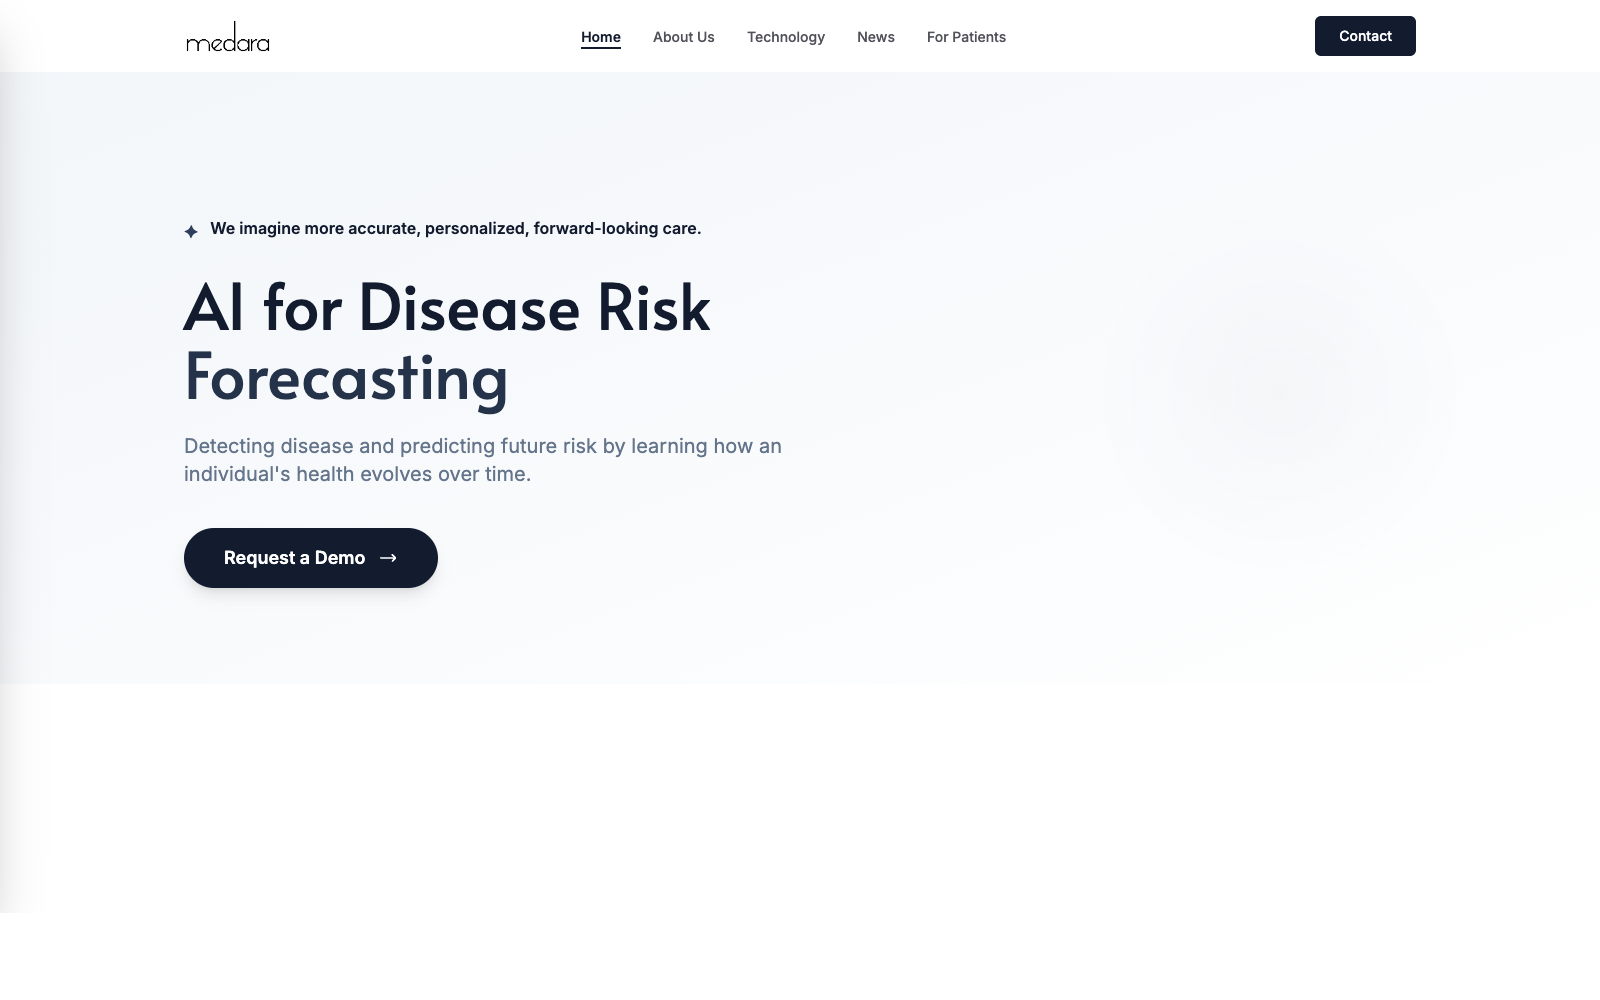
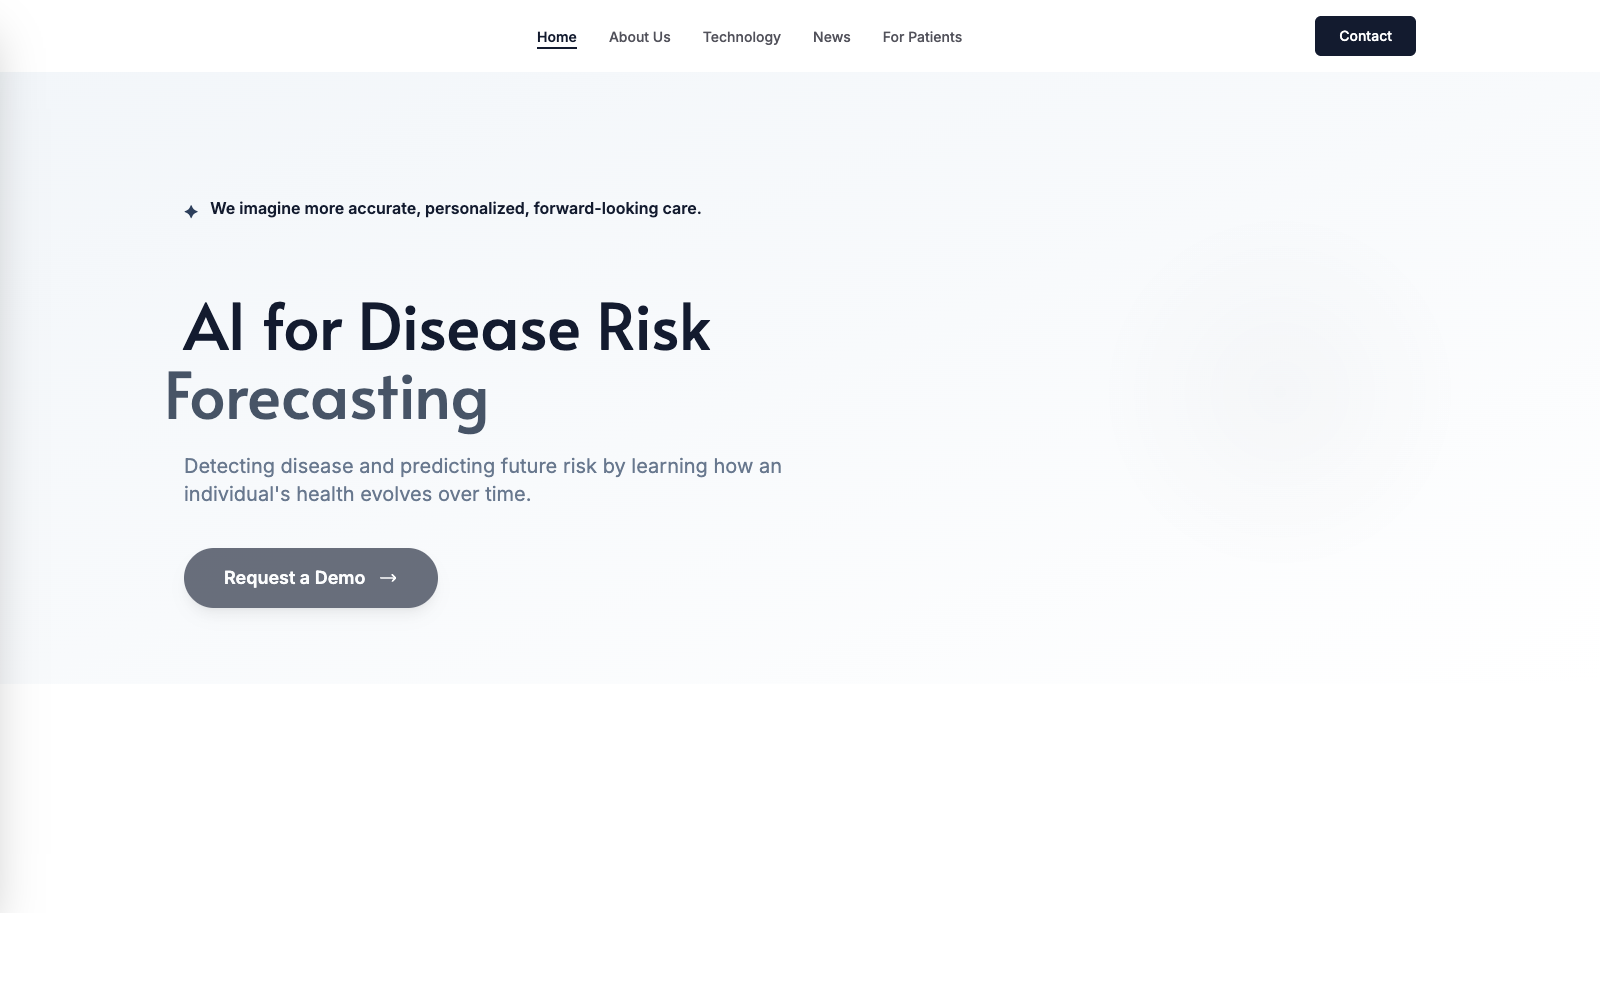
Rebuild Hero again: type-poster composition, product bleeds off-canvas
The previous Snack Mix hero (text-left + product-right + 4 sticker
badges + 3 sparkle doodles) was working visually but reading as a
2024-era D2C-snack template — same anatomy as Liquid Death, OLIPOP,
Magic Spoon, etc.

Composition rebuilt to feel more like a magazine cover or screen-
print poster than a SaaS product page:

- Killed the 5/12 + 7/12 split layout
- Headline now fills the viewport in a 4-line stack
- Product photo is huge and bleeds off the right edge as a single
  dramatic prop (110% width on mobile, ~62% on desktop, rotated -16°)
  instead of being centered/pedestaled in its own column
- mix-blend-multiply on the headline lets the type sit OVER the bar
  where they overlap, so they read as one composition
- Dropped all 4 sticker badges (cliché in the snack-CPG category)
- Dropped all 3 sparkle/asterisk doodles
- Dropped the secondary 'or peek the ingredients' link (was a second
  CTA competing with the primary)
- Replaced sticker callouts with a single horizontal spec strip
  ('Gluten free · 20g protein · Made in small batches') in display
  caps, separated by cherry dots — feels like a magazine masthead
- Caveat eyebrow stays but anchored top-left as a margin note rather
  than centered above the headline (asymmetric on purpose)

docs/hero.png refreshed to capture the new state.

diff --git a/src/sections/Hero.tsx b/src/sections/Hero.tsx
@@ -2,230 +2,117 @@ import { motion } from "framer-motion";
 import { Link } from "react-router-dom";
 
 /**
- * Snack Mix hero.
+ * Type-poster hero.
  *
- * Editorial split kept (asymmetric 5/7 grid + single product), but the
- * voice flips from clinical lab-notebook to playful sticker pack:
- * handwritten Caveat eyebrow, chunky Bricolage headline, sticker badges
- * with bouncy spring motion replacing the thin annotation lines.
+ * Drops the 2024-era D2C-snack template (split layout, sticker
+ * badges around a centered product, scattered sparkle doodles).
+ * The composition now reads like a magazine cover or a screen-print
+ * poster: the headline fills the viewport, and the product bleeds
+ * off the right edge as a single dramatic prop instead of a
+ * pedestaled hero shot.
  */
 export default function Hero() {
   return (
-    <section className="relative w-full bg-cream overflow-hidden pt-28 md:pt-32 pb-20 md:pb-28 px-6 md:px-12">
-      {/* Soft tangerine wash blob in the background — adds warmth without
-          re-introducing the reference's drip-splash motif. */}
+    <section className="relative w-full bg-cream min-h-[92vh] md:min-h-[100vh] overflow-hidden flex flex-col">
+      {/* atmospheric cherry blob — kept low and large so the type sits over warmth */}
       <div
         aria-hidden="true"
-        className="absolute -top-32 -right-32 w-[40rem] h-[40rem] rounded-full bg-tangerine/20 blur-3xl"
-      />
-      <div
-        aria-hidden="true"
-        className="absolute -bottom-40 -left-32 w-[36rem] h-[36rem] rounded-full bg-butter/40 blur-3xl"
+        className="absolute -bottom-32 -left-40 w-[44rem] h-[44rem] rounded-full bg-cherry/12 blur-3xl"
       />
 
-      <div className="relative max-w-[1500px] mx-auto grid grid-cols-1 lg:grid-cols-12 gap-10 lg:gap-16 items-center">
-        {/* LEFT — text column */}
-        <div className="lg:col-span-5 relative">
-          {/* handwritten eyebrow */}
-          <motion.div
-            initial={{ opacity: 0, rotate: -8, y: -10 }}
-            animate={{ opacity: 1, rotate: -3, y: 0 }}
-            transition={{
-              type: "spring",
-              stiffness: 220,
-              damping: 14,
-              delay: 0.1,
-            }}
-            className="font-script text-cherry text-2xl md:text-3xl inline-block"
-          >
-            psst — we made this <span aria-hidden="true">✦</span>
-          </motion.div>
+      {/* the bar — large, dramatic, bleeds off the right edge */}
+      <motion.img
+        src="/products/chocolate.png"
+        alt="Clear Core chocolate protein bar"
+        initial={{ opacity: 0, x: 200, rotate: -8 }}
+        animate={{ opacity: 1, x: 0, rotate: -16 }}
+        transition={{
+          type: "spring",
+          stiffness: 60,
+          damping: 16,
+          delay: 0.2,
+        }}
+        className="absolute pointer-events-none select-none drop-shadow-[0_30px_80px_rgba(26,26,26,0.18)]
+          right-[-22%] sm:right-[-18%] md:right-[-12%] lg:right-[-8%]
+          top-1/2 -translate-y-1/2
+          w-[110%] sm:w-[90%] md:w-[75%] lg:w-[62%] xl:w-[58%]
+          max-w-none
+          opacity-95"
+      />
 
-          <motion.h1
-            initial={{ opacity: 0, y: 30 }}
-            animate={{ opacity: 1, y: 0 }}
-            transition={{ duration: 0.8, ease: [0.16, 1, 0.3, 1], delay: 0.15 }}
-            className="mt-4 font-display font-bold text-ink text-[12vw] md:text-[6vw] lg:text-[5vw] leading-[0.92] tracking-[-0.025em]"
-          >
-            A protein bar that finally tastes like{" "}
-            <span className="font-script font-bold text-cherry not-italic inline-block -rotate-2 mx-1">
+      {/* foreground type composition */}
+      <div className="relative flex-1 max-w-[1500px] mx-auto w-full px-6 md:px-12 pt-28 md:pt-32 pb-12 flex flex-col justify-between">
+        {/* handwritten eyebrow, anchored top-left, NOT centered with the headline.
+            Asymmetry on purpose — it reads like a margin note. */}
+        <motion.div
+          initial={{ opacity: 0, rotate: -10, y: -10 }}
+          animate={{ opacity: 1, rotate: -4, y: 0 }}
+          transition={{ type: "spring", stiffness: 200, damping: 14, delay: 0.1 }}
+          className="font-script text-cherry text-2xl md:text-3xl inline-block self-start"
+        >
+          psst — we made this <span aria-hidden="true">✦</span>
+        </motion.div>
+
+        {/* HEADLINE — fills the viewport like a poster, not a column.
+            Stack of short lines with one Caveat accent. The bar bleeds in
+            from the right behind the type, so right-side lines feel
+            intentionally interrupted. */}
+        <motion.h1
+          initial={{ opacity: 0, y: 24 }}
+          animate={{ opacity: 1, y: 0 }}
+          transition={{ duration: 0.9, ease: [0.16, 1, 0.3, 1], delay: 0.15 }}
+          className="relative z-10 mt-6 md:mt-0 font-display font-bold text-ink leading-[0.88] tracking-[-0.03em]
+            text-[18vw] md:text-[14vw] lg:text-[11vw] xl:text-[10vw]
+            mix-blend-multiply"
+        >
+          <span className="block">A protein</span>
+          <span className="block">bar that</span>
+          <span className="block">finally tastes</span>
+          <span className="block">
+            like{" "}
+            <span className="font-script font-bold text-cherry not-italic inline-block -rotate-3 ml-1">
               food.
             </span>
-          </motion.h1>
+          </span>
+        </motion.h1>
 
-          <motion.p
-            initial={{ opacity: 0, y: 16 }}
-            animate={{ opacity: 1, y: 0 }}
-            transition={{ duration: 0.7, delay: 0.4 }}
-            className="mt-6 max-w-md text-ink/80 text-base md:text-lg leading-relaxed"
+        {/* small bottom row: single CTA pill + metadata strip.
+            Replaces the previous primary+secondary CTA pair so the hero
+            doesn't have two competing buttons. */}
+        <motion.div
+          initial={{ opacity: 0, y: 12 }}
+          animate={{ opacity: 1, y: 0 }}
+          transition={{ duration: 0.6, delay: 0.55 }}
+          className="relative z-10 mt-10 md:mt-12 flex flex-col md:flex-row items-start md:items-center gap-5 md:gap-8"
+        >
+          <Link
+            to="/flavors"
+            className="group inline-flex items-center gap-2 bg-cherry text-cream font-display font-bold uppercase text-sm tracking-tight px-7 py-4 rounded-full border-[3px] border-ink shadow-[4px_4px_0_0_var(--color-ink)] hover:translate-x-[-2px] hover:translate-y-[-2px] hover:shadow-[6px_6px_0_0_var(--color-ink)] transition-all"
           >
-            Real chocolate. Real protein. Zero gluten and zero things you
-            can't pronounce. Made for snack o'clock — whatever time that is
-            for you.
-          </motion.p>
-
-          <motion.div
-            initial={{ opacity: 0, y: 12 }}
-            animate={{ opacity: 1, y: 0 }}
-            transition={{ duration: 0.6, delay: 0.55 }}
-            className="mt-8 flex flex-col sm:flex-row items-start sm:items-center gap-4"
-          >
-            <Link
-              to="/flavors"
-              className="group inline-flex items-center gap-2 bg-cherry text-cream font-display font-bold uppercase text-sm tracking-tight px-7 py-4 rounded-full border-[3px] border-ink shadow-[4px_4px_0_0_var(--color-ink)] hover:translate-x-[-2px] hover:translate-y-[-2px] hover:shadow-[6px_6px_0_0_var(--color-ink)] transition-all"
+            Try a Bar
+            <span
+              className="transition-transform group-hover:translate-x-1"
+              aria-hidden="true"
             >
-              Try a Bar
-              <span className="transition-transform group-hover:translate-x-1" aria-hidden="true">
-                →
-              </span>
-            </Link>
-            <Link
-              to="/flavors/chocolate"
-              className="font-script text-ink/80 text-xl hover:text-cherry transition-colors underline decoration-wavy decoration-tangerine underline-offset-4"
-            >
-              or peek the ingredients
-            </Link>
-          </motion.div>
-        </div>
+              →
+            </span>
+          </Link>
 
-        {/* RIGHT — product + stickers */}
-        <div className="lg:col-span-7 relative aspect-[4/5] md:aspect-[3/2] lg:aspect-square w-full">
-          {/* product image */}
-          <motion.img
-            src="/products/chocolate.png"
-            alt="Clear Core chocolate protein bar"
-            initial={{ opacity: 0, scale: 0.85, rotate: -12 }}
-            animate={{ opacity: 1, scale: 1, rotate: -4 }}
-            transition={{
-              type: "spring",
-              stiffness: 90,
-              damping: 14,
-              delay: 0.25,
-            }}
-            className="absolute inset-0 m-auto w-[78%] h-auto object-contain drop-shadow-[0_30px_60px_rgba(26,26,26,0.18)]"
-          />
-
-          {/* doodle scribbles in Caveat */}
-          <DoodleAccent
-            className="top-[6%] left-[20%] text-tangerine"
-            char="✦"
-            delay={1.2}
-          />
-          <DoodleAccent
-            className="top-[18%] right-[24%] text-cherry"
-            char="✸"
-            delay={1.4}
-          />
-          <DoodleAccent
-            className="bottom-[14%] left-[26%] text-sky"
-            char="✶"
-            delay={1.5}
-          />
-
-          {/* sticker badges — replaces the annotation lines */}
-          <Sticker
-            className="top-[8%] left-[2%]"
-            bg="bg-cherry"
-            text="text-cream"
-            rotate="-8deg"
-            delay={0.6}
-          >
-            20g protein
-          </Sticker>
-          <Sticker
-            className="top-[10%] right-[2%]"
-            bg="bg-tangerine"
-            text="text-ink"
-            rotate="6deg"
-            delay={0.75}
-          >
-            gluten free
-          </Sticker>
-          <Sticker
-            className="bottom-[18%] left-[3%]"
-            bg="bg-sky"
-            text="text-cream"
-            rotate="-4deg"
-            delay={0.9}
-          >
-            real chocolate
-          </Sticker>
-          <Sticker
-            className="bottom-[8%] right-[5%]"
-            bg="bg-butter"
-            text="text-ink"
-            rotate="10deg"
-            delay={1.05}
-          >
-            5g fiber
-          </Sticker>
-        </div>
+          {/* spec strip — replaces the sticker badges as the
+              "what's important about this product" callout */}
+          <ul className="flex flex-wrap items-center gap-x-5 gap-y-2 font-display font-semibold uppercase tracking-tight text-xs md:text-sm text-ink/80">
+            <li>Gluten free</li>
+            <li aria-hidden="true" className="text-cherry">
+              ●
+            </li>
+            <li>20g protein</li>
+            <li aria-hidden="true" className="text-cherry">
+              ●
+            </li>
+            <li>Made in small batches</li>
+          </ul>
+        </motion.div>
       </div>
     </section>
-  );
-}
-
-/**
- * Sticker badge — chunky border, bright fill, offset shadow, rotation.
- * Springs in with a small wobble; hover gives a subtle lift.
- */
-function Sticker({
-  children,
-  className,
-  bg,
-  text,
-  rotate,
-  delay = 0,
-}: {
-  children: React.ReactNode;
-  className?: string;
-  bg: string;
-  text: string;
-  rotate: string;
-  delay?: number;
-}) {
-  return (
-    <motion.span
-      initial={{ opacity: 0, scale: 0.4, rotate: 0 }}
-      animate={{ opacity: 1, scale: 1, rotate: parseFloat(rotate) }}
-      whileHover={{ rotate: parseFloat(rotate) + 4, scale: 1.06 }}
-      transition={{
-        type: "spring",
-        stiffness: 260,
-        damping: 12,
-        delay,
-      }}
-      className={`absolute hidden md:inline-flex items-center font-display font-bold uppercase tracking-tight text-sm md:text-base px-4 py-2 rounded-full border-[3px] border-ink shadow-[3px_3px_0_0_var(--color-ink)] cursor-default select-none ${bg} ${text} ${className ?? ""}`}
-    >
-      {children}
-    </motion.span>
-  );
-}
-
-/** Sparkle/asterisk doodle in handwritten Caveat */
-function DoodleAccent({
-  char,
-  className,
-  delay = 0,
-}: {
-  char: string;
-  className?: string;
-  delay?: number;
-}) {
-  return (
-    <motion.span
-      initial={{ opacity: 0, scale: 0, rotate: -90 }}
-      animate={{ opacity: 1, scale: 1, rotate: 0 }}
-      transition={{
-        type: "spring",
-        stiffness: 200,
-        damping: 10,
-        delay,
-      }}
-      className={`absolute hidden md:inline-block font-script text-3xl md:text-5xl pointer-events-none select-none ${className ?? ""}`}
-      aria-hidden="true"
-    >
-      {char}
-    </motion.span>
   );
 }